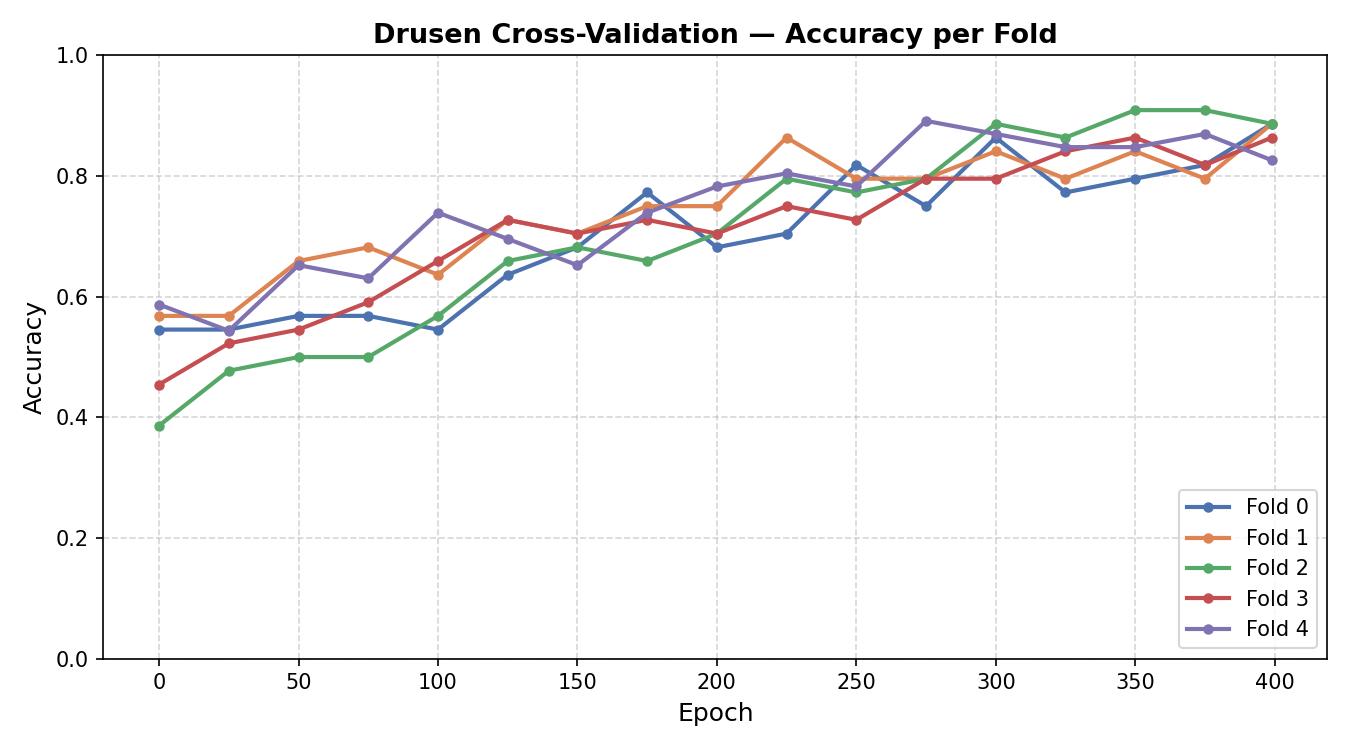
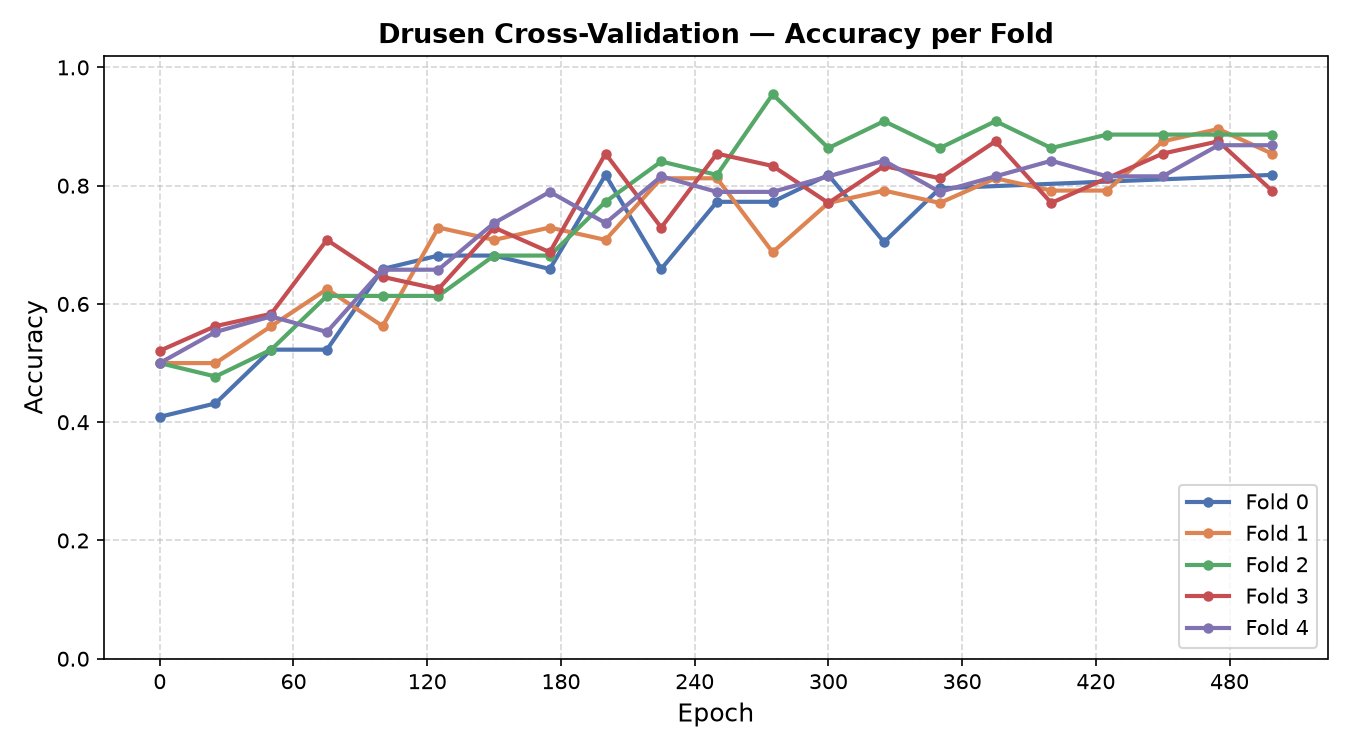
[EXP] Plots for cv accuracy and f1 per fold created

diff --git a/results/fundus-unet/finetuned-model/cv_results/plot_cv_f1_finetuned_model.py b/results/fundus-unet/finetuned-model/cv_results/plot_cv_f1_finetuned_model.py
@@ -1,13 +1,9 @@
 """
 Plot the per-fold F1-score trajectory across training epochs for the Drusen
-cross-validation runs, one line per fold on a single graph.
-
-Folds 1-4 are read from scripts/logs/training_cv_51.log (complete, 400
-epochs). Fold 0 is read from scripts/logs/training_fold_0.txt, a separate
-rerun log started after the original fold 0 run/archive — also complete.
+(Phase-2 finetuning) cross-validation runs, one line per fold on a single graph.
 
 Run:
-    python experiments/fundus-unet/plot_cv_f1.py
+    python results/plot-scripts/plot_cv_f1.py
 """
 
 import os
@@ -15,23 +11,47 @@ import matplotlib.pyplot as plt
 import matplotlib.ticker as mticker
 
 # ── USER INPUT ────────────────────────────────────────────────────────────────
-# One value per evaluation epoch (every SAVE_IMAGE_EPOCHS=25, NUM_EPOCHS=400
-# -> 17 points at epochs 0,25,...,400), per fold. From training_cv_51.log.
+# List of (epoch, F1) pairs per fold, from the finetuning CV logs
+# (log_finetuning_fold_0_cv.txt / log_finetuning_fold1_to_4_cv.log). Fold 0 is
+# missing epochs 375/425/450/475 due to a log-capture gap (does not affect the
+# reported final test metrics); those points are simply omitted here rather
+# than interpolated, and can be added later if recovered.
 F1_BY_FOLD = {
-    "fold 0": [0.5833, 0.5455, 0.5957, 0.5366, 0.5238, 0.6522, 0.6667, 0.7826, 0.6818,
-               0.7234, 0.8261, 0.7442, 0.8696, 0.7826, 0.8085, 0.8333, 0.8889],
-    "fold 1": [0.5581, 0.5581, 0.6512, 0.6818, 0.6190, 0.6667, 0.7111, 0.7317, 0.7442,
-               0.8696, 0.8085, 0.7907, 0.8511, 0.8163, 0.8627, 0.8085, 0.8936],
-    "fold 2": [0.4000, 0.4889, 0.5417, 0.5600, 0.5366, 0.6341, 0.6667, 0.6512, 0.6977,
-               0.7907, 0.7727, 0.7805, 0.8889, 0.8696, 0.9130, 0.9167, 0.8936],
-    "fold 3": [0.4783, 0.4878, 0.5652, 0.6250, 0.6154, 0.7143, 0.6977, 0.7273, 0.7234,
-               0.7843, 0.7500, 0.8085, 0.8163, 0.8511, 0.8696, 0.8462, 0.8750],
-    "fold 4": [0.5581, 0.4878, 0.6667, 0.6222, 0.7273, 0.6500, 0.6522, 0.7391, 0.8000,
-               0.8085, 0.7826, 0.8936, 0.8800, 0.8571, 0.8679, 0.8800, 0.8400],
+    "fold 0": [
+        (0, 0.4348), (25, 0.4444), (50, 0.5333), (75, 0.4878), (100, 0.6154),
+        (125, 0.6316), (150, 0.6818), (175, 0.6512), (200, 0.8095), (225, 0.6341),
+        (250, 0.7619), (275, 0.7826), (300, 0.8261), (325, 0.7347), (350, 0.8235),
+        (499, 0.8400),
+    ],
+    "fold 1": [
+        (0, 0.4545), (25, 0.4783), (50, 0.5714), (75, 0.6087), (100, 0.5532),
+        (125, 0.7234), (150, 0.6957), (175, 0.7111), (200, 0.6957), (225, 0.8085),
+        (250, 0.8000), (275, 0.7059), (300, 0.7843), (325, 0.8077), (350, 0.7843),
+        (375, 0.8235), (400, 0.8000), (425, 0.8077), (450, 0.8846), (475, 0.9057),
+        (499, 0.8727),
+    ],
+    "fold 2": [
+        (0, 0.5000), (25, 0.5306), (50, 0.5333), (75, 0.6047), (100, 0.5854),
+        (125, 0.6047), (150, 0.6957), (175, 0.6500), (200, 0.7917), (225, 0.8444),
+        (250, 0.8182), (275, 0.9565), (300, 0.8696), (325, 0.9091), (350, 0.8636),
+        (375, 0.9130), (400, 0.8696), (425, 0.8889), (450, 0.8837), (475, 0.8889),
+        (499, 0.8837),
+    ],
+    "fold 3": [
+        (0, 0.5106), (25, 0.5882), (50, 0.5652), (75, 0.6957), (100, 0.6222),
+        (125, 0.5714), (150, 0.7347), (175, 0.6512), (200, 0.8571), (225, 0.7111),
+        (250, 0.8511), (275, 0.8261), (300, 0.7556), (325, 0.8400), (350, 0.8085),
+        (375, 0.8800), (400, 0.7925), (425, 0.8235), (450, 0.8627), (475, 0.8800),
+        (499, 0.7917),
+    ],
+    "fold 4": [
+        (0, 0.4865), (25, 0.5854), (50, 0.6000), (75, 0.5854), (100, 0.6486),
+        (125, 0.6286), (150, 0.7500), (175, 0.7778), (200, 0.7500), (225, 0.8205),
+        (250, 0.8000), (275, 0.7895), (300, 0.8205), (325, 0.8500), (350, 0.8000),
+        (375, 0.8372), (400, 0.8500), (425, 0.8293), (450, 0.8372), (475, 0.8780),
+        (499, 0.8780),
+    ],
 }
-
-FIRST_EVAL_EPOCH = 0        # = SAVE_IMAGE_EPOCHS
-EVAL_INTERVAL = 25          # = SAVE_IMAGE_EPOCHS
 
 OUTPUT_DIR = "experiments/fundus-unet/plots"
 # ─────────────────────────────────────────────────────────────────────────────
@@ -46,10 +66,6 @@ FOLD_COLORS = {
 DEFAULT_COLOR = "#808080"
 
 
-def epoch_axis(n_values):
-    return [FIRST_EVAL_EPOCH + i * EVAL_INTERVAL for i in range(n_values)]
-
-
 def main():
     os.makedirs(OUTPUT_DIR, exist_ok=True)
 
@@ -60,8 +76,9 @@ def main():
 
     fig, ax = plt.subplots(figsize=(9, 5))
 
-    for fold_name, values in active.items():
-        epochs = epoch_axis(len(values))
+    for fold_name, points in active.items():
+        epochs = [e for e, _ in points]
+        values = [v for _, v in points]
         color = FOLD_COLORS.get(fold_name, DEFAULT_COLOR)
         ax.plot(epochs, values, marker="o", linewidth=2, markersize=4,
                 color=color, label=fold_name.capitalize())
@@ -69,7 +86,7 @@ def main():
     ax.set_xlabel("Epoch", fontsize=12)
     ax.set_ylabel("F1 score", fontsize=12)
     ax.set_title("Drusen Cross-Validation — F1 Score per Fold", fontsize=13, fontweight="bold")
-    ax.set_ylim(0.0, 1.0)
+    ax.set_ylim(0.0, 1.02)
     ax.xaxis.set_major_locator(mticker.MaxNLocator(integer=True))
     ax.grid(True, linestyle="--", alpha=0.5)
     ax.legend(fontsize=10, loc="lower right")

diff --git a/results/fundus-unet/finetuned-model/cv_results/plot_cv_accuracy_finetuned_model.py b/results/fundus-unet/finetuned-model/cv_results/plot_cv_accuracy_finetuned_model.py
@@ -1,14 +1,10 @@
 """
 Plot the per-fold accuracy trajectory across training epochs for the Drusen
-cross-validation runs, one line per fold on a single graph (analogous to the
-per-fold accuracy plots in Favero et al.).
-
-Folds 1-4 are read from scripts/logs/training_cv_51.log (complete, 400
-epochs). Fold 0 is read from scripts/logs/training_fold_0.txt, a separate
-rerun log started after the original fold 0 run/archive — also complete.
+(Phase-2 finetuning) cross-validation runs, one line per fold on a single
+graph (analogous to the per-fold accuracy plots in Favero et al.).
 
 Run:
-    python experiments/fundus-unet/plot_cv_accuracy.py
+    python results/plot-scripts/plot_cv_accuracy.py
 """
 
 import os
@@ -16,22 +12,47 @@ import matplotlib.pyplot as plt
 import matplotlib.ticker as mticker
 
 # ── USER INPUT ────────────────────────────────────────────────────────────────
-# One value per evaluation epoch (every SAVE_IMAGE_EPOCHS=25, NUM_EPOCHS=400
-# -> 17 points at epochs 0,25,...,375,399), per fold.
+# List of (epoch, accuracy) pairs per fold, from the finetuning CV logs
+# (log_finetuning_fold_0_cv.txt / log_finetuning_fold1_to_4_cv.log). Fold 0 is
+# missing epochs 375/425/450/475 due to a log-capture gap (does not affect the
+# reported final test metrics); those points are simply omitted here rather
+# than interpolated, and can be added later if recovered.
 ACCURACY_BY_FOLD = {
-    "fold 0": [0.5455, 0.5455, 0.5682, 0.5682, 0.5455, 0.6364, 0.6818, 0.7727, 0.6818,
-               0.7045, 0.8182, 0.7500, 0.8636, 0.7727, 0.7955, 0.8182, 0.8864],
-    "fold 1": [0.5682, 0.5682, 0.6591, 0.6818, 0.6364, 0.7273, 0.7045, 0.7500, 0.7500,
-               0.8636, 0.7955, 0.7955, 0.8409, 0.7955, 0.8409, 0.7955, 0.8864],
-    "fold 2": [0.3864, 0.4773, 0.5000, 0.5000, 0.5682, 0.6591, 0.6818, 0.6591, 0.7045,
-               0.7955, 0.7727, 0.7955, 0.8864, 0.8636, 0.9091, 0.9091, 0.8864],
-    "fold 3": [0.4545, 0.5227, 0.5455, 0.5909, 0.6591, 0.7273, 0.7045, 0.7273, 0.7045,
-               0.7500, 0.7273, 0.7955, 0.7955, 0.8409, 0.8636, 0.8182, 0.8636],
-    "fold 4": [0.5870, 0.5435, 0.6522, 0.6304, 0.7391, 0.6957, 0.6522, 0.7391, 0.7826,
-               0.8043, 0.7826, 0.8913, 0.8696, 0.8478, 0.8478, 0.8696, 0.8261],
+    "fold 0": [
+        (0, 0.4091), (25, 0.4318), (50, 0.5227), (75, 0.5227), (100, 0.6591),
+        (125, 0.6818), (150, 0.6818), (175, 0.6591), (200, 0.8182), (225, 0.6591),
+        (250, 0.7727), (275, 0.7727), (300, 0.8182), (325, 0.7045), (350, 0.7955),
+        (499, 0.8182),
+    ],
+    "fold 1": [
+        (0, 0.5000), (25, 0.5000), (50, 0.5625), (75, 0.6250), (100, 0.5625),
+        (125, 0.7292), (150, 0.7083), (175, 0.7292), (200, 0.7083), (225, 0.8125),
+        (250, 0.8125), (275, 0.6875), (300, 0.7708), (325, 0.7917), (350, 0.7708),
+        (375, 0.8125), (400, 0.7917), (425, 0.7917), (450, 0.8750), (475, 0.8958),
+        (499, 0.8542),
+    ],
+    "fold 2": [
+        (0, 0.5000), (25, 0.4773), (50, 0.5227), (75, 0.6136), (100, 0.6136),
+        (125, 0.6136), (150, 0.6818), (175, 0.6818), (200, 0.7727), (225, 0.8409),
+        (250, 0.8182), (275, 0.9545), (300, 0.8636), (325, 0.9091), (350, 0.8636),
+        (375, 0.9091), (400, 0.8636), (425, 0.8864), (450, 0.8864), (475, 0.8864),
+        (499, 0.8864),
+    ],
+    "fold 3": [
+        (0, 0.5208), (25, 0.5625), (50, 0.5833), (75, 0.7083), (100, 0.6458),
+        (125, 0.6250), (150, 0.7292), (175, 0.6875), (200, 0.8542), (225, 0.7292),
+        (250, 0.8542), (275, 0.8333), (300, 0.7708), (325, 0.8333), (350, 0.8125),
+        (375, 0.8750), (400, 0.7708), (425, 0.8125), (450, 0.8542), (475, 0.8750),
+        (499, 0.7917),
+    ],
+    "fold 4": [
+        (0, 0.5000), (25, 0.5526), (50, 0.5789), (75, 0.5526), (100, 0.6579),
+        (125, 0.6579), (150, 0.7368), (175, 0.7895), (200, 0.7368), (225, 0.8158),
+        (250, 0.7895), (275, 0.7895), (300, 0.8158), (325, 0.8421), (350, 0.7895),
+        (375, 0.8158), (400, 0.8421), (425, 0.8158), (450, 0.8158), (475, 0.8684),
+        (499, 0.8684),
+    ],
 }
-
-EVAL_EPOCHS = [0, 25, 50, 75, 100, 125, 150, 175, 200, 225, 250, 275, 300, 325, 350, 375, 399]
 
 OUTPUT_DIR = "experiments/fundus-unet/plots"
 # ─────────────────────────────────────────────────────────────────────────────
@@ -56,8 +77,9 @@ def main():
 
     fig, ax = plt.subplots(figsize=(9, 5))
 
-    for fold_name, values in active.items():
-        epochs = EVAL_EPOCHS[:len(values)]
+    for fold_name, points in active.items():
+        epochs = [e for e, _ in points]
+        values = [v for _, v in points]
         color = FOLD_COLORS.get(fold_name, DEFAULT_COLOR)
         ax.plot(epochs, values, marker="o", linewidth=2, markersize=4,
                 color=color, label=fold_name.capitalize())
@@ -65,7 +87,7 @@ def main():
     ax.set_xlabel("Epoch", fontsize=12)
     ax.set_ylabel("Accuracy", fontsize=12)
     ax.set_title("Drusen Cross-Validation — Accuracy per Fold", fontsize=13, fontweight="bold")
-    ax.set_ylim(0.0, 1.0)
+    ax.set_ylim(0.0, 1.02)
     ax.xaxis.set_major_locator(mticker.MaxNLocator(integer=True))
     ax.grid(True, linestyle="--", alpha=0.5)
     ax.legend(fontsize=10, loc="lower right")

diff --git a/results/plot-scripts/plot_cv_f1.py b/results/plot-scripts/plot_cv_f1.py
@@ -1,9 +1,9 @@
 """
 Plot the per-fold F1-score trajectory across training epochs for the Drusen
-cross-validation runs, one line per fold on a single graph.
+(Phase-2 finetuning) cross-validation runs, one line per fold on a single graph.
 
 Run:
-    python experiments/fundus-unet/plot_cv_f1.py
+    python results/plot-scripts/plot_cv_f1.py
 """
 
 import os
@@ -11,17 +11,23 @@ import matplotlib.pyplot as plt
 import matplotlib.ticker as mticker
 
 # ── USER INPUT ────────────────────────────────────────────────────────────────
-# One value per evaluation epoch (every SAVE_IMAGE_EPOCHS=25, NUM_EPOCHS=400
+# List of (epoch, F1) pairs per fold, from the finetuning CV logs
+# (log_finetuning_fold_0_cv.txt / log_finetuning_fold1_to_4_cv.log). Fold 0 is
+# missing epochs 375/425/450/475 due to a log-capture gap (does not affect the
+# reported final test metrics); those points are simply omitted here rather
+# than interpolated, and can be added later if recovered.
 F1_BY_FOLD = {
-    "fold 0": [], # insert values
-    "fold 1": [], # insert values
-    "fold 2": [], # insert values
-    "fold 3": [], # insert values
-    "fold 4": [], # insert values
+    "fold 0": [
+    ],
+    "fold 1": [
+    ],
+    "fold 2": [
+    ],
+    "fold 3": [
+    ],
+    "fold 4": [
+    ],
 }
-
-FIRST_EVAL_EPOCH = 0        # = SAVE_IMAGE_EPOCHS
-EVAL_INTERVAL = 25          # = SAVE_IMAGE_EPOCHS
 
 OUTPUT_DIR = "experiments/fundus-unet/plots"
 # ─────────────────────────────────────────────────────────────────────────────
@@ -36,10 +42,6 @@ FOLD_COLORS = {
 DEFAULT_COLOR = "#808080"
 
 
-def epoch_axis(n_values):
-    return [FIRST_EVAL_EPOCH + i * EVAL_INTERVAL for i in range(n_values)]
-
-
 def main():
     os.makedirs(OUTPUT_DIR, exist_ok=True)
 
@@ -50,8 +52,9 @@ def main():
 
     fig, ax = plt.subplots(figsize=(9, 5))
 
-    for fold_name, values in active.items():
-        epochs = epoch_axis(len(values))
+    for fold_name, points in active.items():
+        epochs = [e for e, _ in points]
+        values = [v for _, v in points]
         color = FOLD_COLORS.get(fold_name, DEFAULT_COLOR)
         ax.plot(epochs, values, marker="o", linewidth=2, markersize=4,
                 color=color, label=fold_name.capitalize())

diff --git a/results/plot-scripts/plot_cv_accuracy.py b/results/plot-scripts/plot_cv_accuracy.py
@@ -1,10 +1,10 @@
 """
 Plot the per-fold accuracy trajectory across training epochs for the Drusen
-cross-validation runs, one line per fold on a single graph (analogous to the
-per-fold accuracy plots in Favero et al.).
+(Phase-2 finetuning) cross-validation runs, one line per fold on a single
+graph (analogous to the per-fold accuracy plots in Favero et al.).
 
 Run:
-    python experiments/fundus-unet/plot_cv_accuracy.py
+    python results/plot-scripts/plot_cv_accuracy.py
 """
 
 import os
@@ -12,16 +12,23 @@ import matplotlib.pyplot as plt
 import matplotlib.ticker as mticker
 
 # ── USER INPUT ────────────────────────────────────────────────────────────────
-# One value per evaluation epoch (every SAVE_IMAGE_EPOCHS=25, NUM_EPOCHS=400
+# List of (epoch, accuracy) pairs per fold, from the finetuning CV logs
+# (log_finetuning_fold_0_cv.txt / log_finetuning_fold1_to_4_cv.log). Fold 0 is
+# missing epochs 375/425/450/475 due to a log-capture gap (does not affect the
+# reported final test metrics); those points are simply omitted here rather
+# than interpolated, and can be added later if recovered.
 ACCURACY_BY_FOLD = {
-    "fold 0": [], # insert values
-    "fold 1": [], # insert values
-    "fold 2": [], # insert values
-    "fold 3": [], # insert values
-    "fold 4": [], # insert values
+    "fold 0": [
+    ],
+    "fold 1": [
+    ],
+    "fold 2": [
+    ],
+    "fold 3": [
+    ],
+    "fold 4": [
+    ],
 }
-
-EVAL_EPOCHS = [0, 25, 50, 75, 100, 125, 150, 175, 200, 225, 250, 275, 300, 325, 350, 375, 399]
 
 OUTPUT_DIR = "experiments/fundus-unet/plots"
 # ─────────────────────────────────────────────────────────────────────────────
@@ -46,8 +53,9 @@ def main():
 
     fig, ax = plt.subplots(figsize=(9, 5))
 
-    for fold_name, values in active.items():
-        epochs = EVAL_EPOCHS[:len(values)]
+    for fold_name, points in active.items():
+        epochs = [e for e, _ in points]
+        values = [v for _, v in points]
         color = FOLD_COLORS.get(fold_name, DEFAULT_COLOR)
         ax.plot(epochs, values, marker="o", linewidth=2, markersize=4,
                 color=color, label=fold_name.capitalize())
